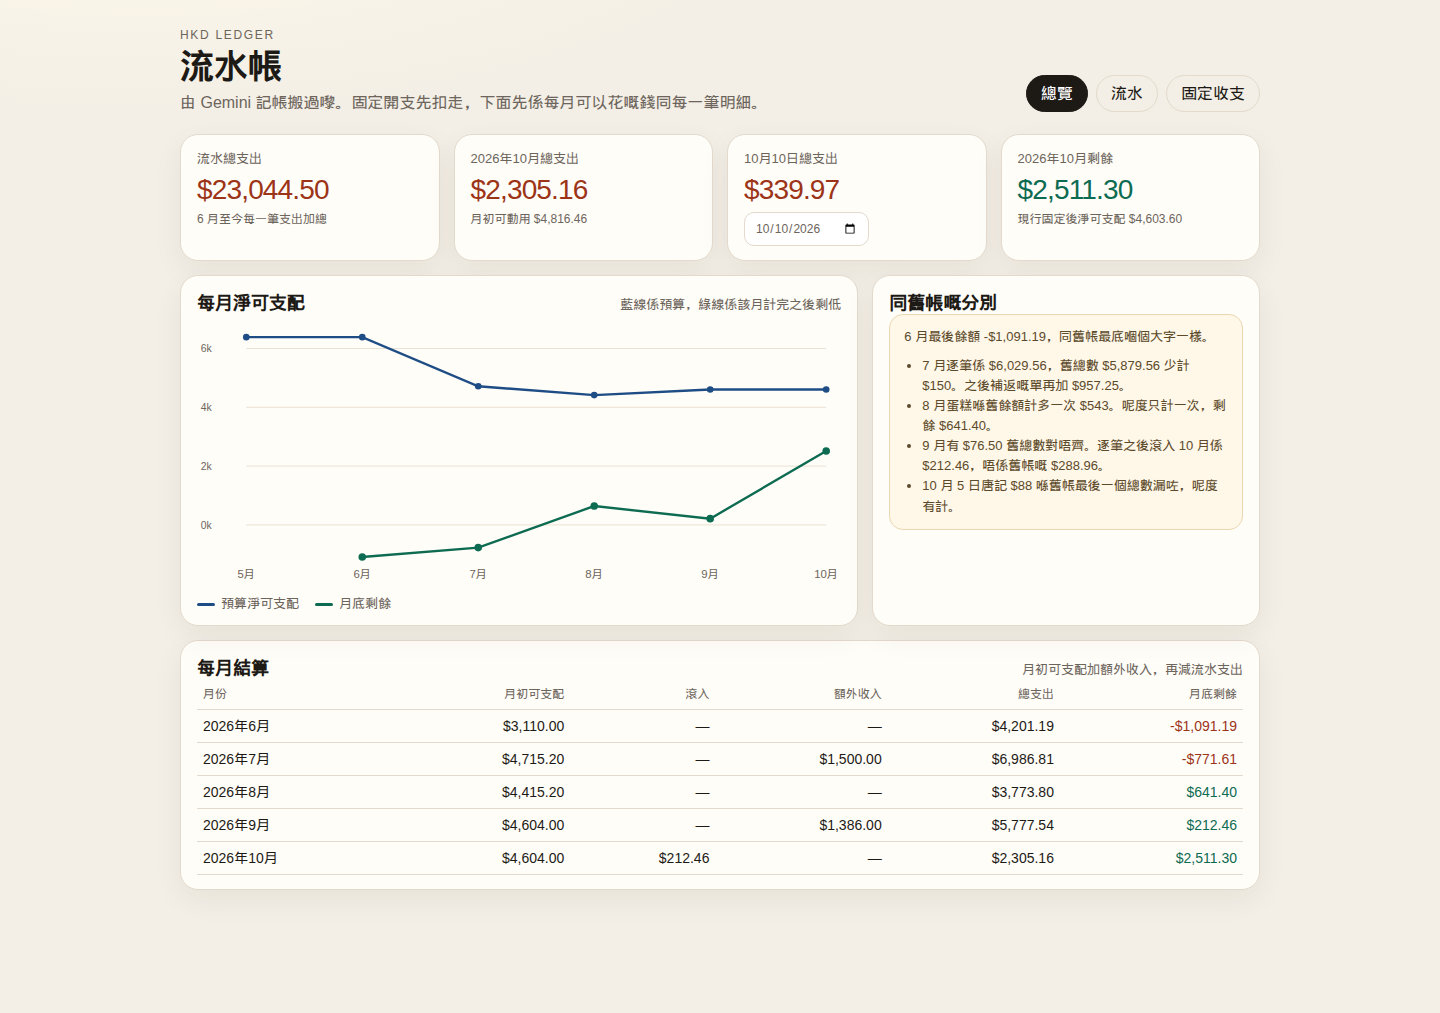
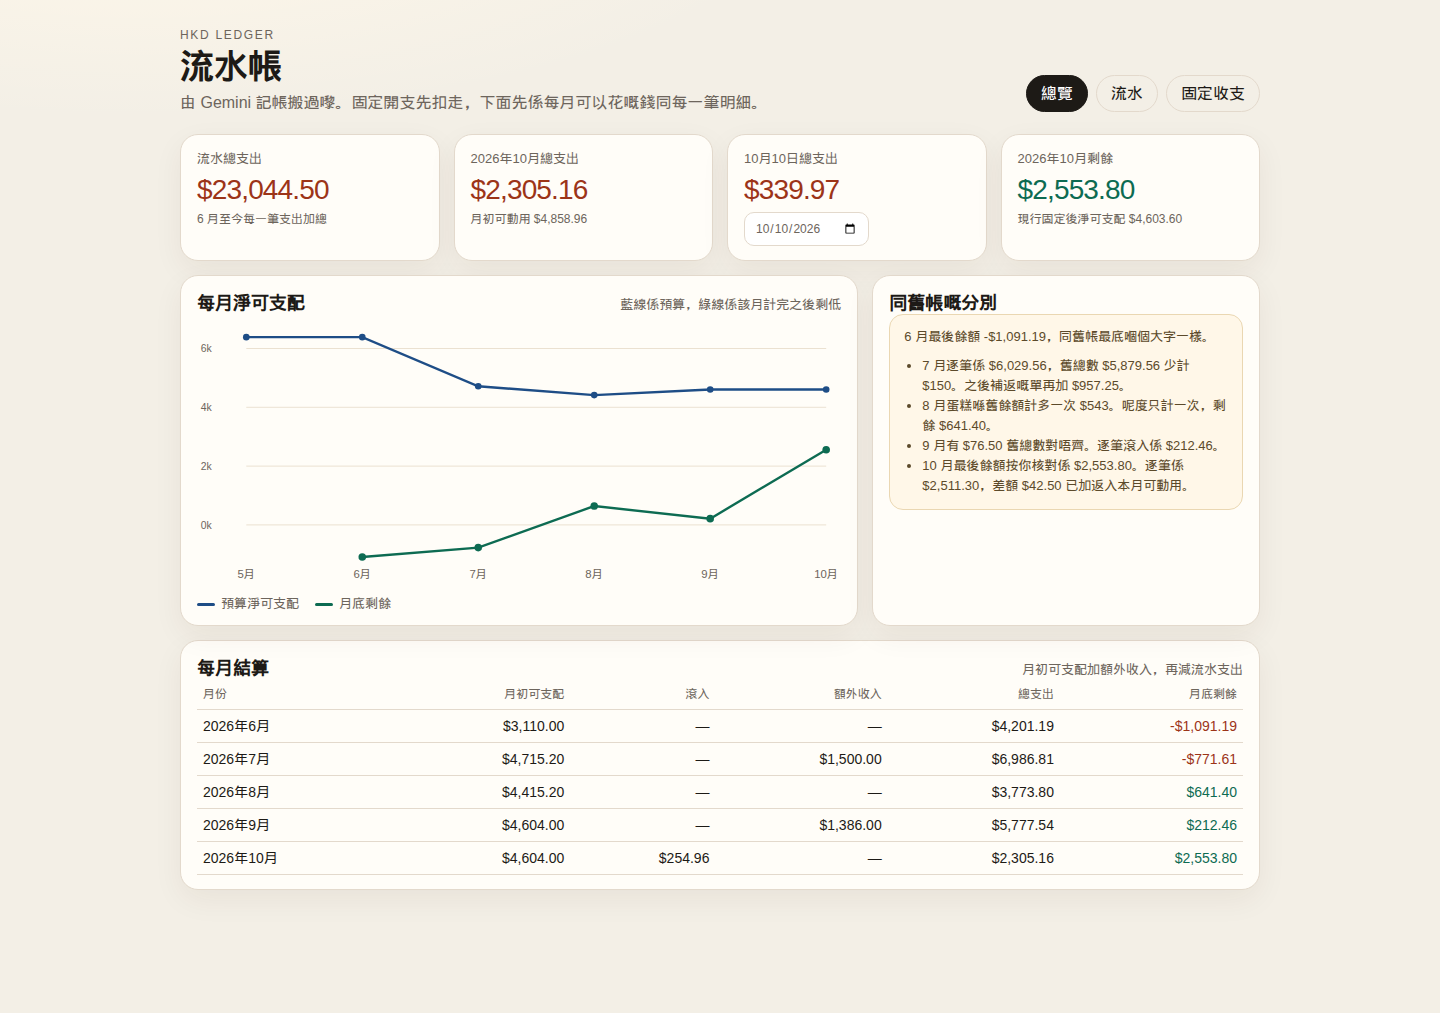
Set October's closing balance to 2,553.80.
The line-item total was 42.50 lower than the checked balance, so that difference is added back into this month's available amount.

diff --git a/記帳/app.js b/記帳/app.js
@@ -148,7 +148,7 @@ function renderTable(months) {
       ${months.map((month) => `<tr>
         <td>${monthLabel(month.key)}</td>
         <td class="num">${money(month.budget)}</td>
-        <td class="num">${month.rolled ? money(month.rolled) : "—"}</td>
+        <td class="num">${month.rolled || month.adjust ? money(roundMoney(month.rolled + (month.adjust || 0))) : "—"}</td>
         <td class="num">${month.income ? money(month.income) : "—"}</td>
         <td class="num">${money(month.expense)}</td>
         <td class="num ${month.remainder < 0 ? "neg" : "pos"}">${money(month.remainder)}</td>
@@ -162,8 +162,8 @@ function renderReconcile() {
     <ul>
       <li>7 月逐筆係 $6,029.56，舊總數 $5,879.56 少計 $150。之後補返嘅單再加 $957.25。</li>
       <li>8 月蛋糕喺舊餘額計多一次 $543。呢度只計一次，剩餘 $641.40。</li>
-      <li>9 月有 $76.50 舊總數對唔齊。逐筆之後滾入 10 月係 $212.46，唔係舊帳嘅 $288.96。</li>
-      <li>10 月 5 日唐記 $88 喺舊帳最後一個總數漏咗，呢度有計。</li>
+      <li>9 月有 $76.50 舊總數對唔齊。逐筆滾入係 $212.46。</li>
+      <li>10 月最後餘額按你核對係 $2,553.80。逐筆係 $2,511.30，差額 $42.50 已加返入本月可動用。</li>
     </ul>`;
 }
 

diff --git a/記帳/ledger-calc.js b/記帳/ledger-calc.js
@@ -22,12 +22,14 @@ function buildMonths(transactions, settings, defaultBudget) {
       rows.filter((row) => row.type === "income").reduce((sum, row) => sum + row.amount, 0)
     );
     const rolled = cfg.roll && prevRemainder > 0 ? roundMoney(prevRemainder) : 0;
-    const pool = roundMoney(Number(cfg.budget) + rolled);
+    const adjust = roundMoney(Number(cfg.adjust || 0));
+    const pool = roundMoney(Number(cfg.budget) + rolled + adjust);
     const remainder = roundMoney(pool + income - expense);
     months.push({
       key,
       budget: roundMoney(Number(cfg.budget)),
       rolled,
+      adjust,
       pool,
       income,
       expense,

diff --git a/記帳/ledger-data.js b/記帳/ledger-data.js
@@ -83,7 +83,8 @@ var LEDGER = {
     "2026-10": {
       "budget": 4604,
       "roll": true,
-      "note": "10 月基線 $4,604，9 月剩餘滾入。"
+      "adjust": 42.5,
+      "note": "10 月基線 $4,604，9 月剩餘滾入。另加 $42.50，令最後餘額等於核對過嘅 $2,553.80。"
     }
   },
   "defaultBudget": 4604,

diff --git a/記帳/build_data.py b/記帳/build_data.py
@@ -296,7 +296,12 @@ data = {
         "2026-07": {"budget": 4715.2, "roll": False, "note": "7 月 1 日按財務目標 $4,715.20 重置。"},
         "2026-08": {"budget": 4415.2, "roll": False, "note": "你指定每月刷新用 $4,415.20，8 月沒有帶入 7 月結餘。"},
         "2026-09": {"budget": 4604, "roll": False, "note": "月中由 $4,415.20 提升到最新報表 $4,604。"},
-        "2026-10": {"budget": 4604, "roll": True, "note": "10 月基線 $4,604，9 月剩餘滾入。"},
+        "2026-10": {
+            "budget": 4604,
+            "roll": True,
+            "adjust": 42.5,
+            "note": "10 月基線 $4,604，9 月剩餘滾入。另加 $42.50，令最後餘額等於核對過嘅 $2,553.80。",
+        },
     },
     "defaultBudget": 4604,
     "budgetHistory": [
@@ -334,6 +339,6 @@ sep_spend = spend("2026-09")
 sep_inc = inc("2026-09")
 sep_rem = round(4604 + sep_inc - sep_spend, 2)
 print("sep rem", sep_rem, "gemini rollover 288.96", "gap", round(288.96 - sep_rem, 2))
-oct_open = round(4604 + max(sep_rem, 0), 2)
+oct_open = round(4604 + max(sep_rem, 0) + data["months"]["2026-10"].get("adjust", 0), 2)
 print("oct open", oct_open, "oct spend", spend("2026-10"), "oct rem", round(oct_open - spend("2026-10"), 2))
 print("gemini oct rem 2675.80")

diff --git a/Cursor output/記帳/2026-10-11_流水帳.md b/Cursor output/記帳/2026-10-11_流水帳.md
@@ -15,9 +15,9 @@
 - 6 月由 $3,110 起記，最後餘額 -$1,091.19，同舊帳最底個大字一樣。
 - 7 月逐筆 $6,029.56，舊總數 $5,879.56 少計 $150。之後補單再加 $957.25。7 月有富途加租金 $1,500。
 - 8 月蛋糕 $543 喺舊餘額計多一次。呢度只計一次，剩餘 $641.40。8 月沒有帶入 7 月結餘，月初用你指定嘅 $4,415.20。
-- 9 月基線係 $4,604，另有國泰城 $600 同食飯墊付退回 $786。舊帳滾入 10 月係 $288.96；逐筆之後係 $212.46，因為中間有 $76.50 對唔齊。
+- 9 月基線係 $4,604，另有國泰城 $600 同食飯墊付退回 $786。逐筆滾入係 $212.46。
 - 10 月 5 日唐記 $88 喺舊帳最後一個總數漏咗。10 月 10 日當日支出 $339.97，同舊帳當日總數一樣。
 
-10 月開波係 $4,604 加 9 月剩餘 $212.46，即 $4,816.46。計完 10 月支出 $2,305.16 之後，剩 $2,511.30。
+10 月支出 $2,305.16。逐筆餘額係 $2,511.30，你核對嘅最後餘額係 $2,553.80，差額 $42.50 已加返入本月可動用。10 月剩餘 $2,553.80。
 
 梨木樹水費 $156.20 你之後叫剔除，所以沒有入 9 月流水。雪糕最後係 $19，唔係一開始寫嘅 $79。
